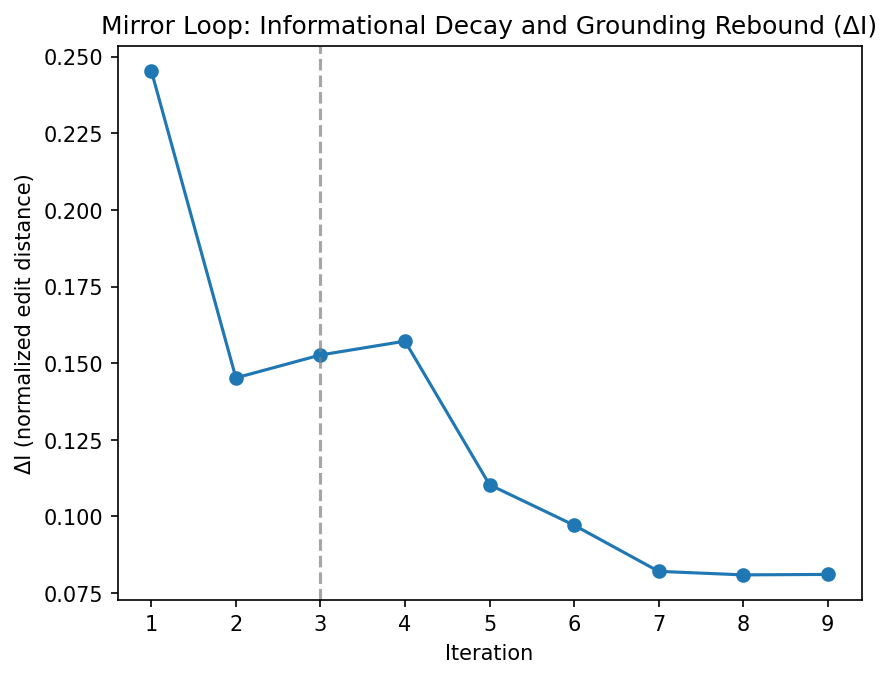
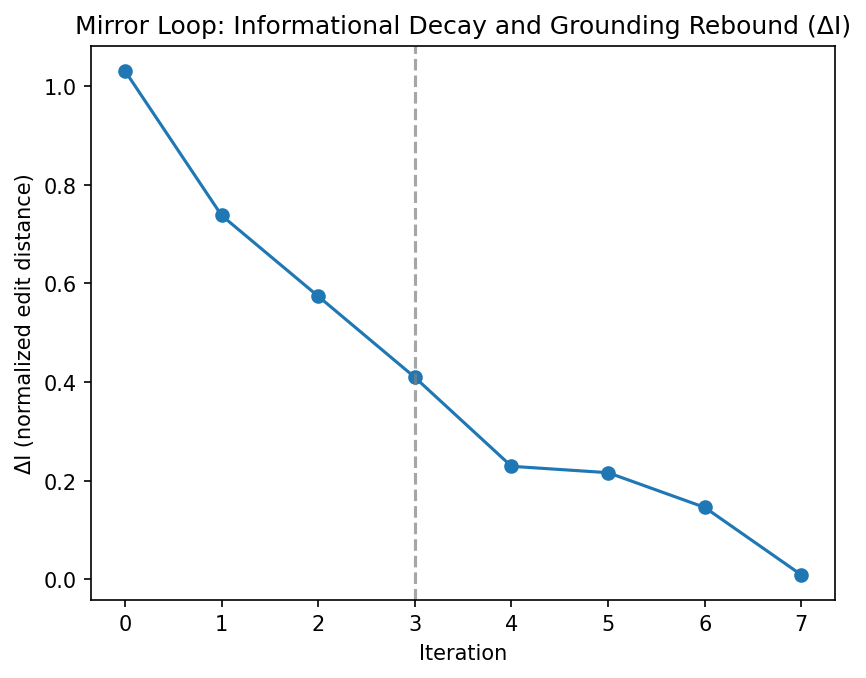
Make demo idiot-proof with graceful CSV fallback
- Remove FileNotFoundError in favor of clean synthetic fallback
- Script/notebook now runs successfully whether CSV exists or not
- Synthetic data uses exponential decay (realistic curve shape)
- Clear user feedback: ⚠ warning or ✓ success message
- Colab badge now works out of the box - no user edits needed

This makes the demo immediately runnable for:
- Hiring managers clicking Colab badge
- Reviewers testing reproducibility
- Portfolio viewers exploring the code

diff --git a/mirror_loop/mirror_loop_demo.py b/mirror_loop/mirror_loop_demo.py
@@ -17,15 +17,20 @@ if not DATA.exists():
     # Synthetic fallback for demonstration (does not leak actual results)
     import numpy as np
     print("⚠  CSV not found. Using synthetic demo data.")
-    iterations = np.arange(0, 10)
-    pooled = pd.DataFrame({
-        "iteration": iterations,
-        "delta_I": np.linspace(0.22, 0.07, 10) + np.random.normal(0, 0.005, 10),
-        "ngram_novelty": np.linspace(0.35, 0.12, 10) + np.random.normal(0, 0.005, 10),
+    demo_iters = np.arange(8)
+    df = pd.DataFrame({
+        "iteration": demo_iters,
+        "edit_change": np.exp(-demo_iters / 3) + np.random.normal(0, 0.05, len(demo_iters)),
+        "ngram_novelty": np.exp(-demo_iters / 2.5) + np.random.normal(0, 0.05, len(demo_iters))
     })
+    pooled = df.groupby('iteration', as_index=False).agg(
+        delta_I=('edit_change', 'mean'),
+        ngram_novelty=('ngram_novelty', 'mean')
+    )
 else:
     # Load actual cached results
     df = pd.read_csv(DATA)
+    print(f"✓ Loaded {len(df)} rows from {DATA.name}")
 
     # Expect columns: iteration, edit_change (ΔI), ngram_novelty (and optionally model, condition)
     # Aggregate across providers for the canonical pooled curve
